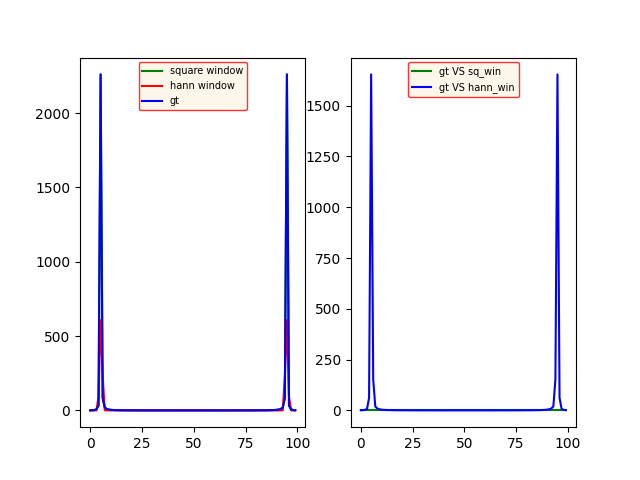
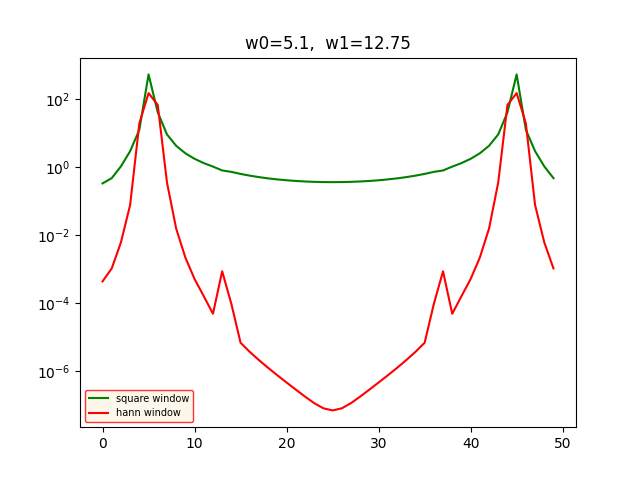
done task12

diff --git a/task12/task12.py b/task12/task12.py
@@ -9,8 +9,8 @@ import matplotlib.pyplot as plt
 from typing import NamedTuple
 
 a0, a1 = 1., 0.002
-w0, w1 = 5.1, 25.5
-T, N = 2 * np.pi, 100
+w0, w1 = 5.1, 25.5/2.
+T, N = 2 * np.pi, 50
 
 
 class Result(NamedTuple):
@@ -55,19 +55,22 @@ def FFTW(t: np.array, h):
 
 def run() -> None:
     time = np.linspace(0, T, N)
-    # signal = func(time)
-    fig, axs = plt.subplots(nrows=1, ncols=2)
-    sq_window, hann_window = FFTW(time, square_window_func), FFTW(time, hann_window_func)
-    axs[0].plot(sq_window.w, sq_window.spectrum, color='green', label='square window')
-    axs[0].plot(hann_window.w, hann_window.spectrum, color='red', label='hann window')
-    axs[0].plot(hann_window.w, py_fftw(time, square_window_func), color='blue', label='gt')
-    axs[0].legend(fontsize=7, ncol=1, facecolor='oldlace', edgecolor='r')
 
-    error_sq = np.abs(np.array(py_fftw(time, square_window_func) - sq_window.spectrum))
-    axs[1].plot(sq_window.w, error_sq, color='green', label='gt VS sq_win')
-    error_hann = np.abs(np.array(py_fftw(time, square_window_func) - hann_window.spectrum))
-    axs[1].plot(hann_window.w, error_hann, color='blue', label='gt VS hann_win')
-    axs[1].legend(fontsize=7, ncol=1, facecolor='oldlace', edgecolor='r')
+    # signal = func(time)
+    # fig, axs = plt.subplots(nrows=1, ncols=2)
+    plt.yscale('log')
+    sq_window, hann_window = FFTW(time, square_window_func), FFTW(time, hann_window_func)
+    plt.plot(sq_window.w, sq_window.spectrum, color='green', label='square window')
+    plt.plot(hann_window.w, hann_window.spectrum, color='red', label='hann window')
+    # plt.plot(hann_window.w, py_fftw(time, hann_window_func), color='blue', label='gt')
+    plt.legend(fontsize=7, ncol=1, facecolor='oldlace', edgecolor='r')
+
+    # error_sq = np.abs(np.array(py_fftw(time, square_window_func) - sq_window.spectrum))
+    # axs[1].plot(sq_window.w, error_sq, color='green', label='gt VS sq_win')
+    # error_hann = np.abs(np.array(py_fftw(time, square_window_func) - hann_window.spectrum))
+    # axs[1].plot(hann_window.w, error_hann, color='blue', label='gt VS hann_win')
+    # axs[1].legend(fontsize=7, ncol=1, facecolor='oldlace', edgecolor='r')
+    plt.title(f'w0={w0},  w1={w1}')
     plt.savefig('task12/signal_spectr.png')
     plt.close()
 
